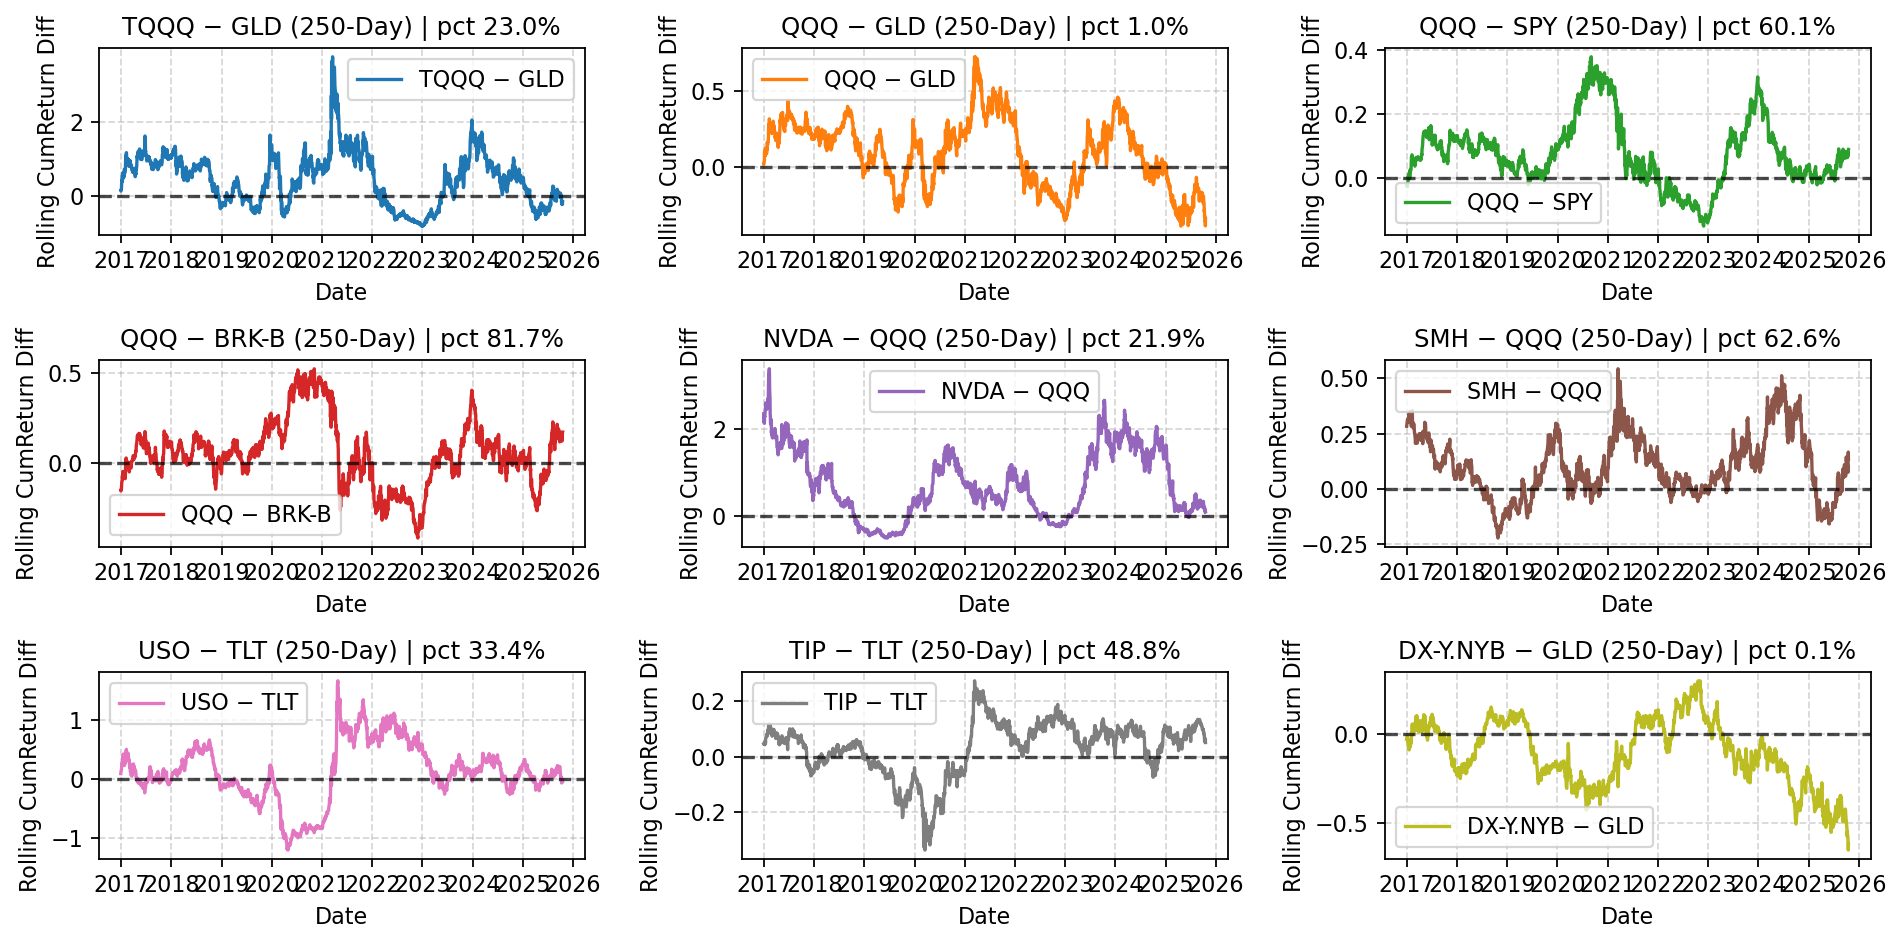
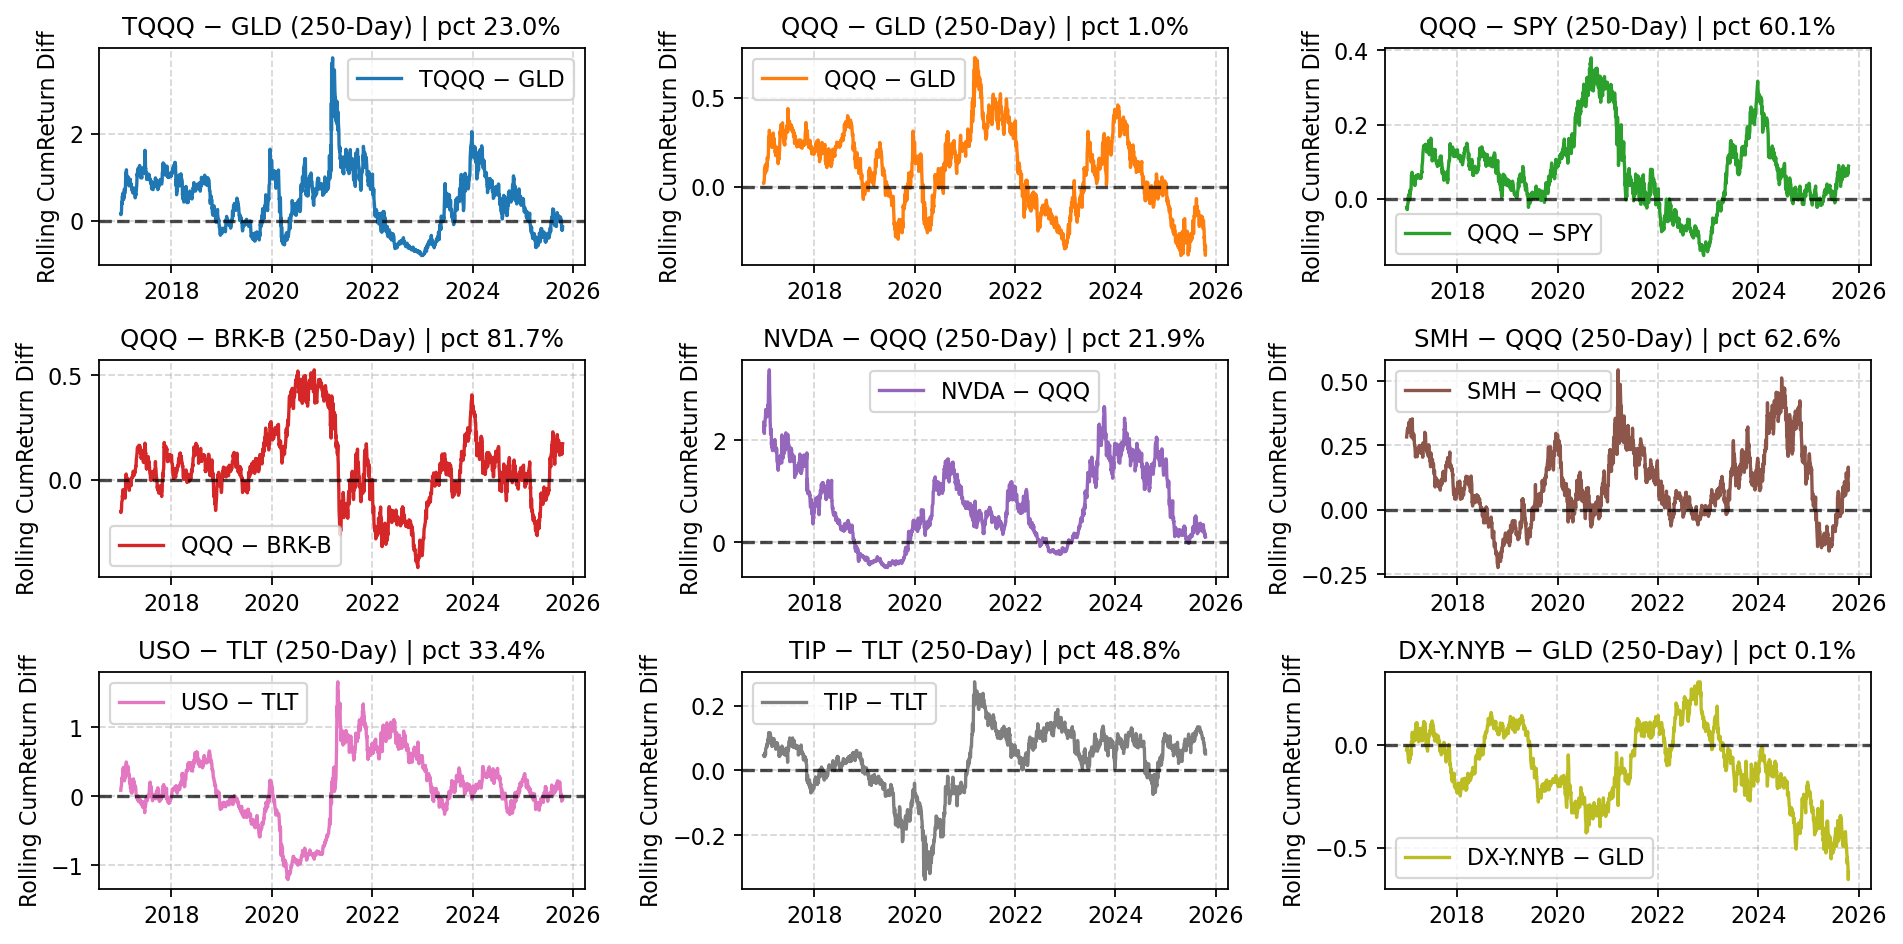
update daily workflows

diff --git a/docs/index.html b/docs/index.html
@@ -12,7 +12,7 @@
 </head>
 <body>
   <h1>Rolling Pair Diffs (250-day)</h1>
-  <div class="meta">Last updated: 2025-10-25 15:54 UTC</div>
+  <div class="meta">Last updated: 2025-10-25 16:06 UTC</div>
   <p><img src="rolling_pairs.png" alt="rolling pairs figure"></p>
   <div class="note">
     Data via <code>yfinance</code>. Figure regenerates daily via GitHub Actions.

diff --git a/auto_macro_pair_monitor.py b/auto_macro_pair_monitor.py
@@ -13,6 +13,8 @@ import yfinance as yf
 import pandas as pd
 import numpy as np
 import matplotlib.pyplot as plt
+import matplotlib.dates as mdates
+
 
 # ===== Parameters =====
 WINDOW = 250  # rolling window size (e.g., 250 trading days ≈ 1 year)
@@ -107,7 +109,11 @@ def main():
         ax.plot(df.index, diff.values, label=f'{TARGET} − {BASE}', color=f'C{idx % 10}')
         ax.axhline(0, color='black', linestyle='--', alpha=0.7)
         ax.set_title(f'{TARGET} − {BASE} ({WINDOW}-Day) | pct {latest_pct:.1f}%', fontsize=11)
-        ax.set_xlabel("Date")
+        ax.xaxis.set_major_locator(mdates.YearLocator(2))
+        ax.xaxis.set_major_formatter(mdates.DateFormatter('%Y'))
+        for label in ax.get_xticklabels():
+            label.set_rotation(0) 
+        ax.set_xlabel("")  
         ax.set_ylabel("Rolling CumReturn Diff")
         ax.legend()
         ax.grid(True, linestyle='--', alpha=0.5)
